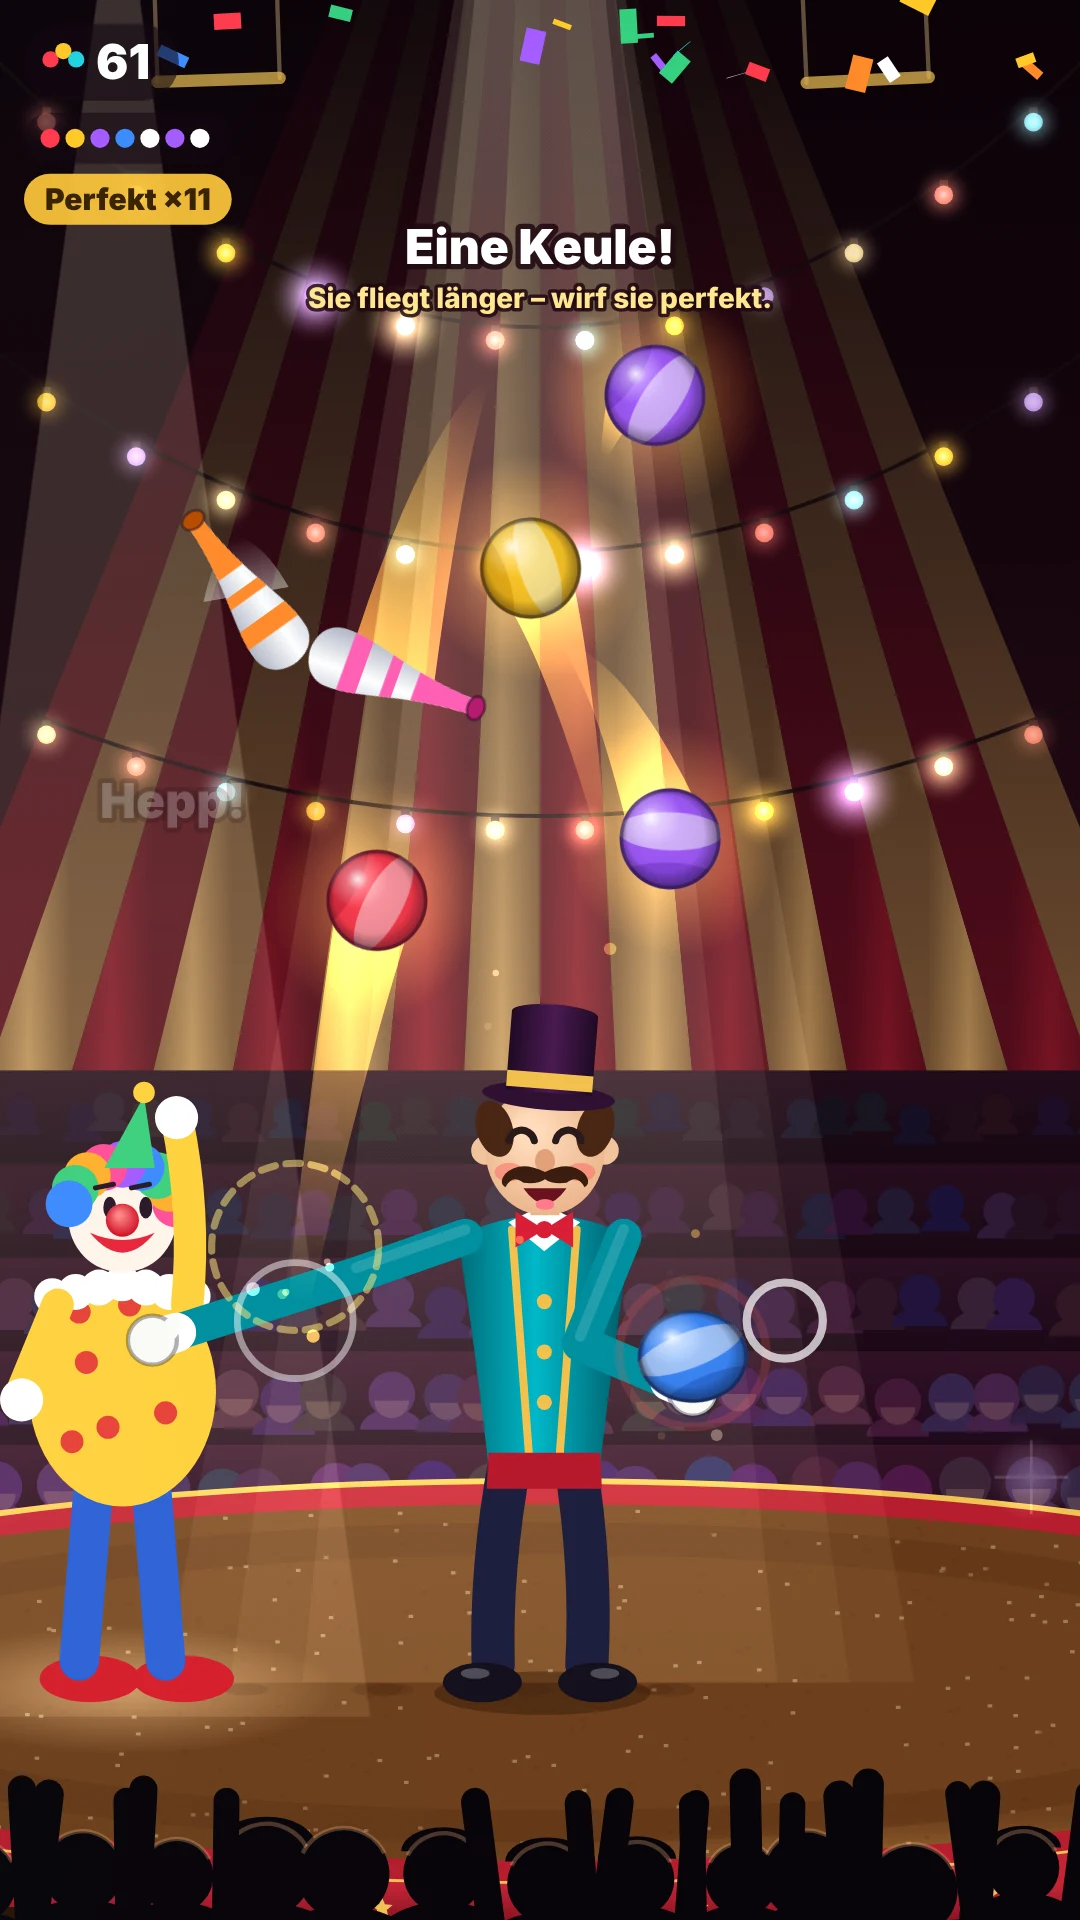
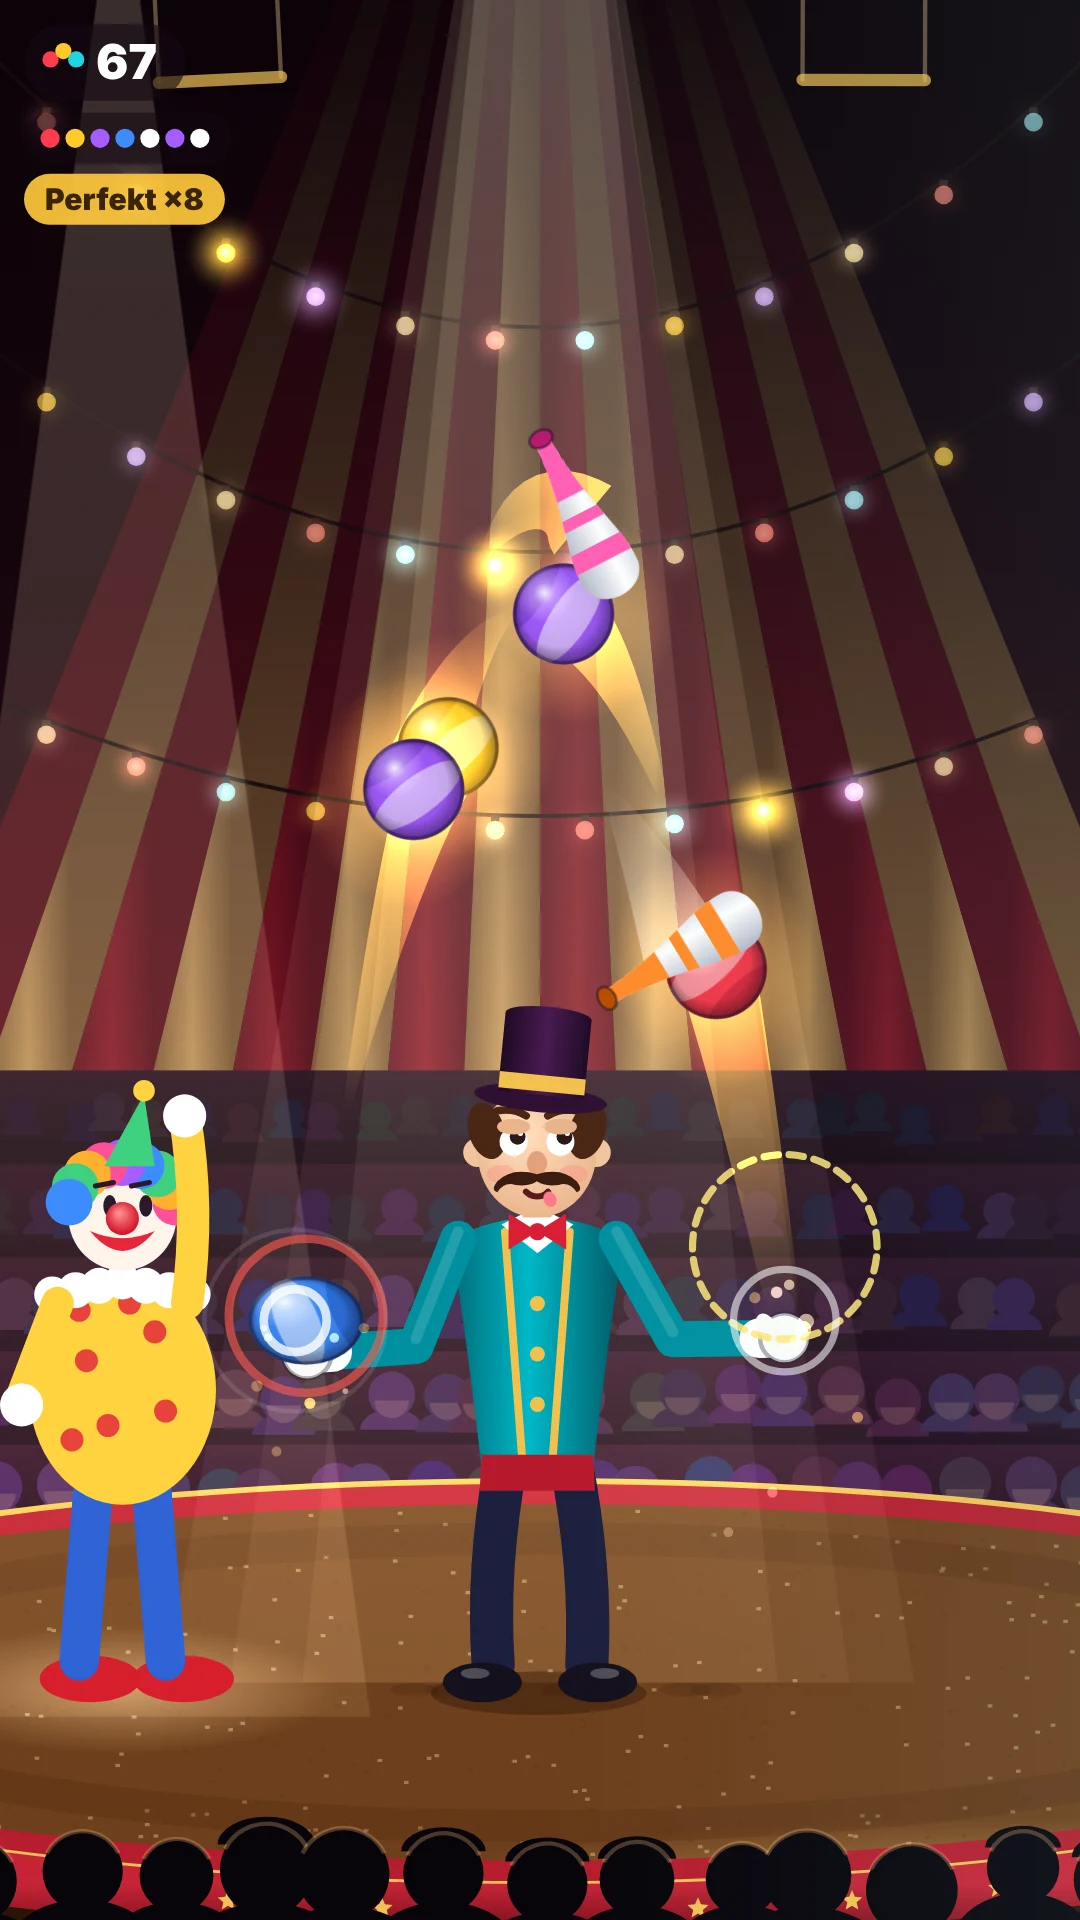
WIP Jongleur: Arme, stabile Federn, Clownbogen, neue Standbilder
Claude-Session: https://claude.ai/code/session_01Psf4iZAqeQEYw64c7esvQu

diff --git a/jongleur.js b/jongleur.js
@@ -121,7 +121,6 @@
   const SCHULTER_X = 22;
   const SCHULTER_Y = 128;
   const OBERARM = 32;
-  const UNTERARM = 34;
   const H_NORM = 185;              // so hoch steigt ein gewöhnlicher Wurf über die Hände
   const CLOWN_X = 158;             // dort steht der Clown, wenn er wirft (auf schmalen Bildern weiter innen)
 
@@ -162,7 +161,7 @@
   // (Anteil), hoehe – wie hoch der Bogen im Bild aussieht.
   const ART = {
     ball: { flug: 1, hoehe: 1, name: "Ball", r: 14 },
-    keule: { flug: 1.15, hoehe: 1.18, name: "Keule", r: 16, lang: 54 },
+    keule: { flug: 1.15, hoehe: 1.08, name: "Keule", r: 16, lang: 54 },
     fackel: { flug: 1, hoehe: 1.06, name: "Fackel", r: 15, lang: 46 },
     kugel: { flug: 0.85, hoehe: 0.62, name: "Kugel", r: 15.5 },
     apfel: { flug: 1, hoehe: 1, name: "Apfel", r: 14.5 },
@@ -849,7 +848,7 @@
     d.y0 = 168 + auflage(d.art);
     d.x1 = (z.hand === 0 ? -1 : 1) * FANG_X;
     d.y1 = HAND_Y + auflage(d.art);
-    d.bogen = 150 + Math.abs(d.x1 - d.x0) * 0.25;
+    d.bogen = 95 + Math.abs(d.x1 - d.x0) * 0.2;
     d.dreh0 = 0;
     d.drehungen = 1;
     d.spin = -seite * 6;
@@ -1936,16 +1935,16 @@
   // ---------------------------------------------------------------------------
   // Der Jongleur
   // ---------------------------------------------------------------------------
-  // Zwei Glieder vom Schulter- zum Handpunkt: wo der Ellbogen steht. Er zeigt
-  // nach unten, an die Seite des Körpers – wie bei jemandem, der jongliert.
-  function ellbogen(sx, sy, hx, hy, l1, l2, seite) {
-    const dx = hx - sx;
-    const dy = hy - sy;
-    const d = clamp(Math.hypot(dx, dy), Math.abs(l1 - l2) + 0.01, l1 + l2 - 0.01);
-    const a = Math.atan2(dy, dx);
-    const b = Math.acos(clamp((l1 * l1 + d * d - l2 * l2) / (2 * l1 * d), -1, 1));
-    const w = a + (seite < 0 ? b : -b);
-    return { x: sx + Math.cos(w) * l1, y: sy + Math.sin(w) * l1 };
+  // Wo der Ellbogen steht: Er hängt an der Seite des Körpers, leicht nach
+  // aussen – wie bei jemandem, der jongliert –, und wandert erst nach aussen
+  // und oben, wenn die Hand weit hinaus oder über die Schulter geht. Der
+  // Unterarm zeigt dazu oft nach vorn, zum Publikum: Im Bild ist er dann
+  // kürzer.
+  function ellbogen(sx, sy, hx, hy, l1, seite) {
+    const hoch = clamp((hy - (sy - 34)) / 70, 0, 1);
+    const weit = clamp((Math.abs(hx - sx) - 30) / 40, 0, 1);
+    const w = (0.18 + 0.55 * weit + 1.1 * hoch) * seite;
+    return { x: sx + Math.sin(w) * l1, y: sy - Math.cos(w) * l1 };
   }
 
   // Wie dem Jongleur zumute ist: "froh" vor dem Start, "konzentriert" beim
@@ -2086,7 +2085,7 @@
       let hx = hv.x;
       let hy = hv.y;
       if (schock) { hx = lerp(hx, seite * 44, 0.6); hy = lerp(hy, 168, 0.6); }
-      const e = ellbogen(sx, sy, hx, hy, OBERARM, UNTERARM, seite);
+      const e = ellbogen(sx, sy, hx, hy, OBERARM, seite);
       g.strokeStyle = "#00909f";
       g.lineWidth = 10;
       g.beginPath();
@@ -3161,19 +3160,26 @@
         }
       }
       if (state.fehler) { tx = seite * 44; ty = 168; }
+      // Die Feder in kleinen Schritten: Auch nach einem langen Bild schwingt
+      // sie nicht auf.
       const w = 30;
-      const ax = w * w * (tx - hv.x) - 2 * w * hv.vx;
-      const ay = w * w * (ty - hv.y) - 2 * w * hv.vy;
-      hv.vx += ax * dt;
-      hv.vy += ay * dt;
-      hv.x += hv.vx * dt;
-      hv.y += hv.vy * dt;
+      const n = Math.max(1, Math.ceil(dt / TAKT));
+      const h2 = dt / n;
+      for (let i = 0; i < n; i += 1) {
+        hv.vx += (w * w * (tx - hv.x) - 2 * w * hv.vx) * h2;
+        hv.vy += (w * w * (ty - hv.y) - 2 * w * hv.vy) * h2;
+        hv.x += hv.vx * h2;
+        hv.y += hv.vy * h2;
+      }
     });
     // Der Körper wippt beim Fang in den Knien und lehnt sich zur fangenden
     // Hand.
     const kb = 16;
-    B.bobV += (-kb * kb * B.bob - 2 * 0.5 * kb * B.bobV) * dt;
-    B.bob += B.bobV * dt;
+    const nb = Math.max(1, Math.ceil(dt / TAKT));
+    for (let i = 0; i < nb; i += 1) {
+      B.bobV += (-kb * kb * B.bob - 2 * 0.5 * kb * B.bobV) * (dt / nb);
+      B.bob += B.bobV * (dt / nb);
+    }
     B.lean += (B.leanZiel - B.lean) * Math.min(1, dt * 6);
     B.leanZiel *= Math.max(0, 1 - dt * 2);
     // Der Clown läuft herein, wartet mit dem Ding, wirft, winkt kurz und
